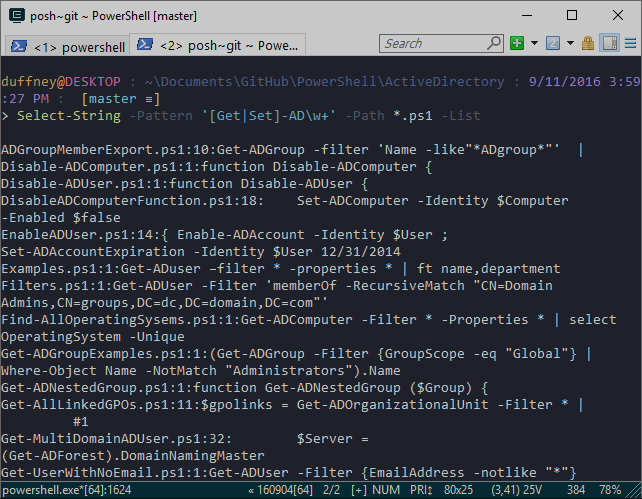
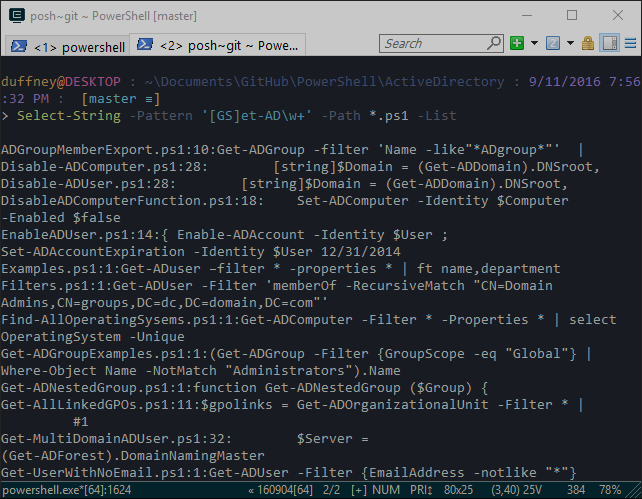
updated regex post

diff --git a/_drafts/2016-9-11-EveryWhichWayToUseRegexInPowerShell.md b/_drafts/2016-9-11-EveryWhichWayToUseRegexInPowerShell.md
@@ -1,6 +1,6 @@
 ---
 layout: post
-title:  "Every Which Way to Use Regex In PowerShell"
+title:  "A Practical Guide for Using Regex in PowerShell"
 date:   2016-9-11 09:02:00
 comments: true
 tags: [PowerShell, Regex, RegularExpression]
@@ -9,8 +9,8 @@ modified: 2016-9-11
 
 ### Introduction
 
-In this blog post you'll learn all the ways to use regular expression from within PowerShell. You've most likely used some of these
-techniques before. Such as the *-match* operator or the *select-string* cmdlet, but probably weren't aware you were using regular epxressions.
+In this blog post you'll learn severals ways to use regular expression from within PowerShell. You've most likely used some of these
+techniques before. Such as the *-match* operator or the *select-string* cmdlet, but probably weren't aware you were using regular epxression.
 This post will not teach you how to craft complex regular epxressions. Instead it focuses on how to use them in PowerShell to find matches, replace
 text, and to split on matches.
 
@@ -50,17 +50,50 @@ Get-Service | where Name -NotMatch '\d'
 
 ### -replace Operator
 
+Matching text is always the first part of using regular expression and it's useful, but most of the time you want to do something with that match. Using the same example
+as above I can use the -replace operator instead of -match to replace the entire string with what I wanted to match. The expression looks like this *'CN=(\w+).\*','$1'*.
+I'm using a subexpression () to capture the match 'Administrator'. Matches found within subexpression are stored in variables. In PowerShell they start at the number 0 and increment
+by one for each subexpression used. That is why you see the *'$1'* in the expression. If you're not familair with -replace the synatx is *'this' -replace 'this','that'* which replace
+the word this with that. Relating that to our expression *'CN=(\w+).\** matches the entire distinguished name and *'$1'* replaces it with the match found in the first subexpression. In
+this case 'Administrator'.
 
+{% highlight PowerShell %}
+Get-Service | where Name -NotMatch '\d'
+{% endhighlight
+
+![replace](/images/posts/2016-9-11/replace.png "replace")
 
 ### Select-String cmdlet
 
 Select-String searches for text and text patterns in either a string or a set of files. I use it mostly for looking through scripts I've written to identify which scripts
 contain keywords I'm looking for. For example I could use it to search a folder for all scripts that are using Active Directory cmdlets with the verbs Get and Set. To do that, I 
 could craft a simple expression that looks for a few verbs Get and Set followed by -AD then a series of words. That expression might look something like this *[GS]et-AD\w+*.
-*[Get|Set]* is a combination of a character class and an alternation. 
+*[GS]* is a character class, but simply put it means allow G or S as the first character.
 
 {% highlight PowerShell %}
 Select-String -Pattern '[GS]et-AD\w+' -Path *.ps1 -List
 {% endhighlight
 
 ![selectstring](/images/posts/2016-9-11/selectstring.png "selectstring")
+
+### Switch Statements
+
+Another way to use regex in PowerShell is within a switch statement. In the below example I'm using regular expression to validate user names in Active Directory. There are
+three statements one validates service account names, another validates admin accounts and the last one identifies invalid characters. You could perhaps take this logic and 
+add it to some PowerShell automation that creates user accounts. Each of these switch statements could execute different processes for creating Active Directory accounts. 
+
+{% highlight PowerShell %}
+$UserNames = 'svc_jenkins','duffney.admin','<jduffney>'
+
+foreach ($UserName in $UserNames) {
+    switch -regex ($var) {
+        'svc_[^"/\\\[\]:;|=,+\*\?<>*]+' {"service account [$UserName]"}
+        '[^"/\\\[\]:;|=,+\*\?<>*]+\.admin' {"admin account [$UserName]"}
+        '["/\\\[\]:;|=,+\*\?<>*]+' {"[$UserName] contains invalid characters"}
+    }   
+}
+{% endhighlight
+
+### Regex Object
+
+The previous examples of using regular expressions in PowerShell have been integrated into cmdlets a
